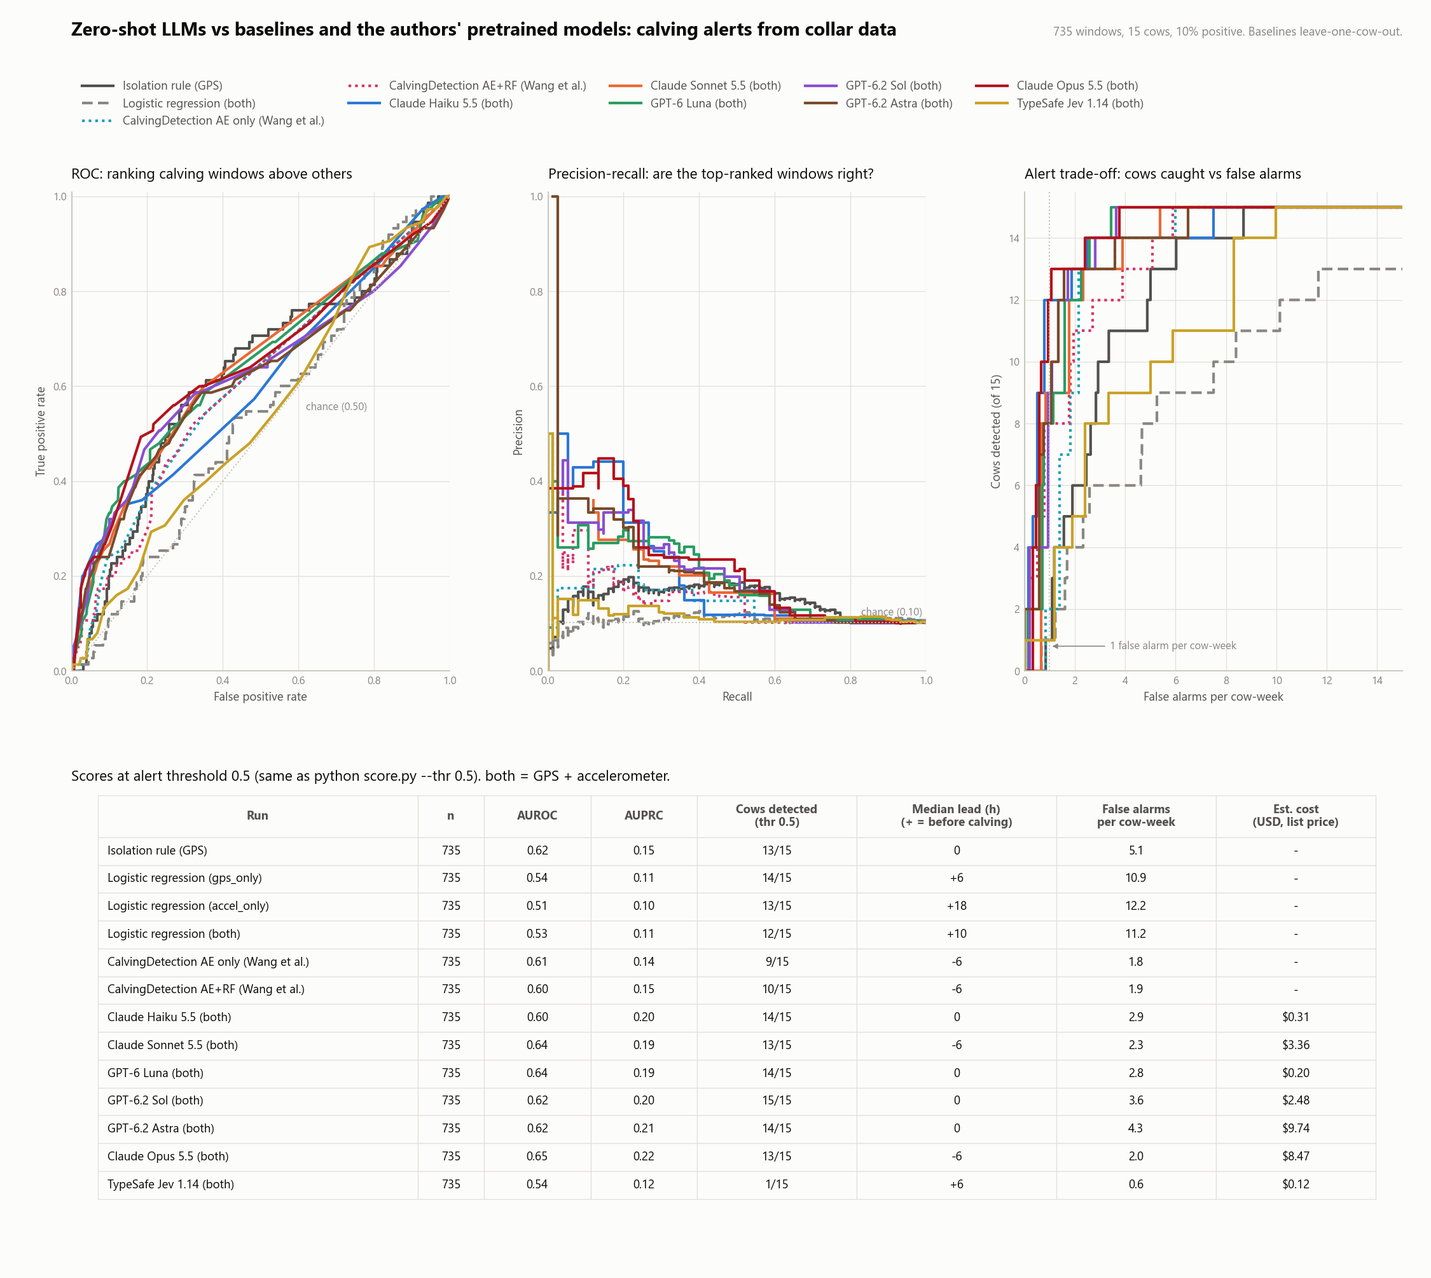
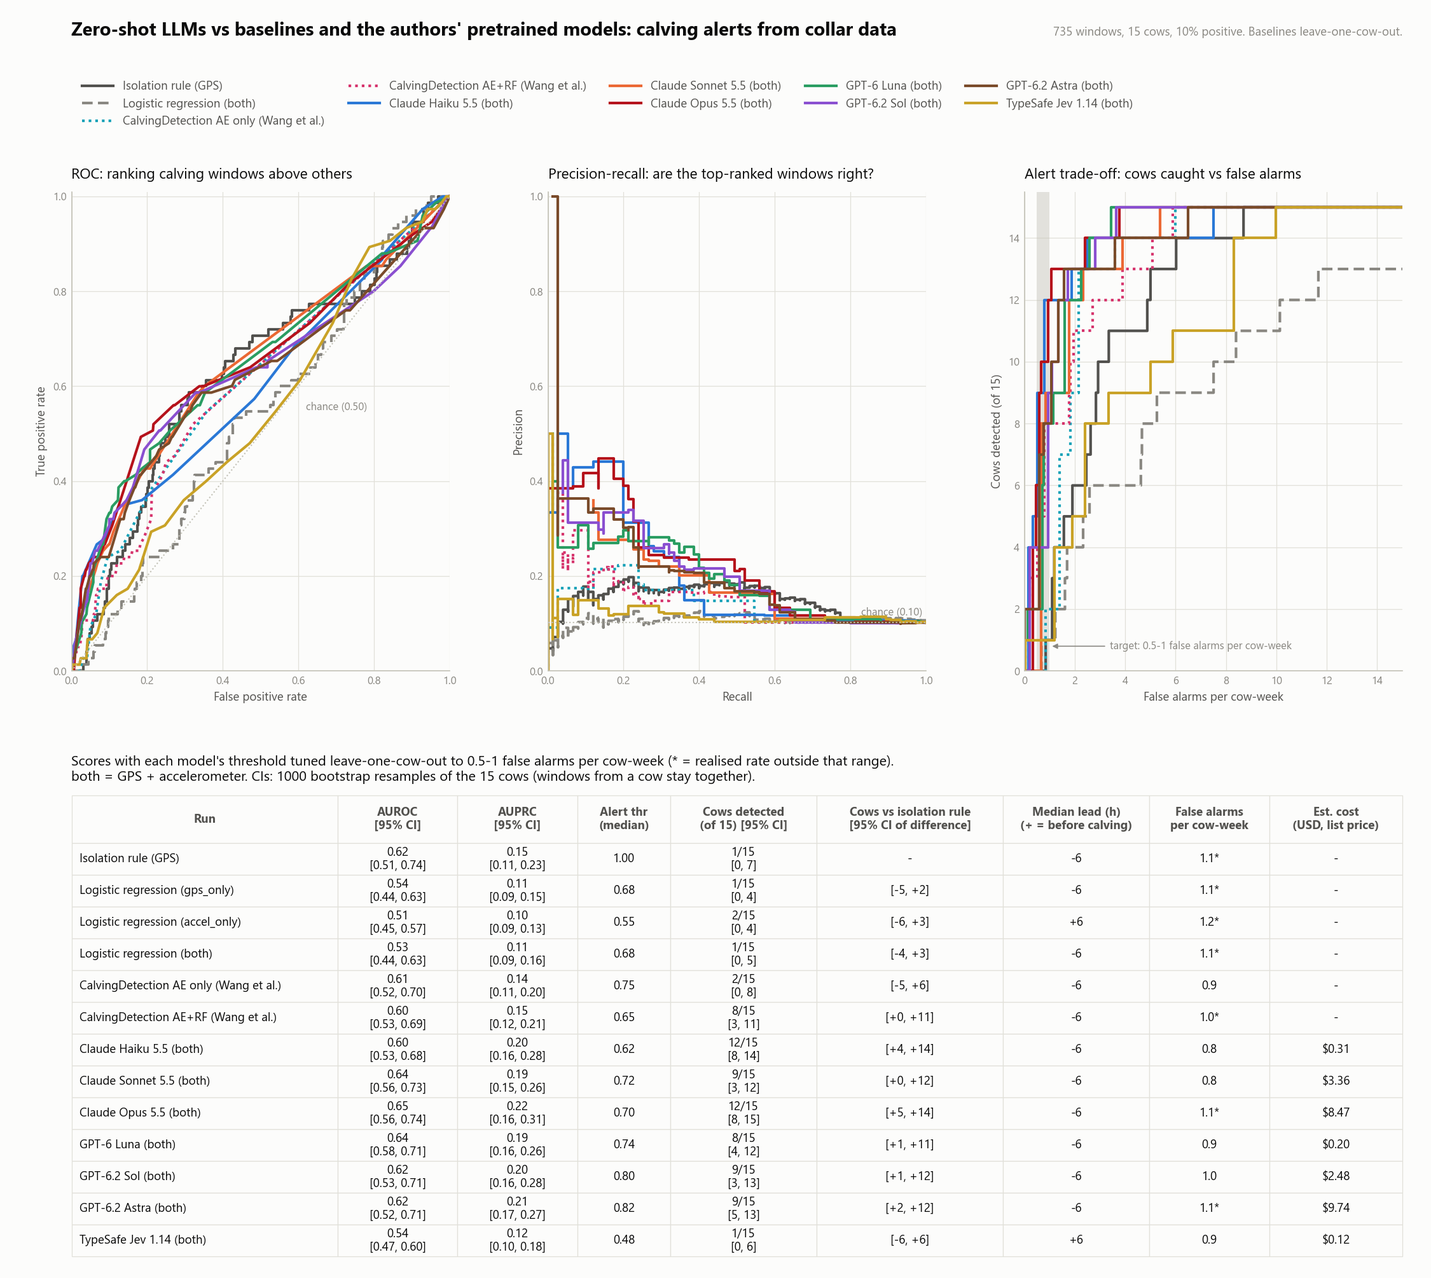
updated writeup

diff --git a/score.py b/score.py
@@ -1,11 +1,16 @@
 """Score LLM runs and compare them with two classic baselines.
 
-Usage: python score.py            # scores every file in results/
-       python score.py --thr 0.5  # alert threshold on the probability
+Usage: python score.py            # default: per-model threshold tuned to a false-alarm budget
+       python score.py --fa-lo 0.5 --fa-hi 1.0   # the budget, in false alarms per cow-week
+       python score.py --thr 0.5  # fixed alert threshold on the probability instead
 
 Window-level: AUROC and AUPRC (threshold-free; chance AUPRC = positive rate).
 Event-level at the threshold: cows detected (any positive window alerted),
 median lead time before calving, false alarms per cow-week.
+Budget mode: for each held-out cow, the threshold is the lowest one that keeps the OTHER 14 cows'
+false alarms <= --fa-hi per cow-week (lowest threshold = most cows caught within budget). It is
+applied to the held-out cow and the results are pooled, so the threshold never sees the cow it
+scores. The realised FA/wk can land outside [fa-lo, fa-hi]; it is flagged with * when it does.
 Baselines are computed from windows.jsonl with leave-one-cow-out, so they never
 see the test cow.
 """
@@ -43,7 +48,35 @@ def logreg_scores(W, feats):
     return list(s)
 
 
+def pick_threshold(recs, fa_hi):
+    """Lowest probability threshold whose false alarms stay <= fa_hi per cow-week on these recs.
+    inf (never alert) if even the highest score exceeds the budget."""
+    negs = np.sort([r["prob"] for r in recs if not r["label"]])
+    weeks = len(negs) * STEP_H / 168
+    cands = np.unique([r["prob"] for r in recs])  # ascending; FA is non-increasing in the threshold
+    fa = (len(negs) - np.searchsorted(negs, cands, side="left")) / weeks  # negatives with prob >= t
+    ok = np.where(fa <= fa_hi)[0]
+    return float(cands[ok[0]]) if len(ok) else float("inf")
+
+
+def evaluate(recs, thr, fa_lo, fa_hi):
+    """metrics() at a fixed threshold (thr is a number), or, if thr is None, at the leave-one-cow-out
+    false-alarm-budget thresholds. Adds 'thr' (median across folds) and 'in_range'."""
+    if thr is not None:
+        out = metrics(recs, thr); out["thr"] = thr; out["in_range"] = True
+        return out
+    recs = [r for r in recs if r.get("prob") is not None]
+    per_cow = {c: pick_threshold([r for r in recs if r["cow"] != c], fa_hi) for c in {r["cow"] for r in recs}}
+    out = metrics(recs, per_cow)
+    finite = [t for t in per_cow.values() if np.isfinite(t)]
+    out["thr"] = float(np.median(finite)) if finite else None
+    fa = out["fa_per_cow_week"]
+    out["in_range"] = fa is not None and fa_lo <= fa <= fa_hi
+    return out
+
+
 def metrics(recs, thr):
+    """thr is a number, or a {cow: threshold} dict (used by the leave-one-cow-out budget mode)."""
     recs = [r for r in recs if r.get("prob") is not None]
     y = np.array([r["label"] for r in recs]); p = np.array([r["prob"] for r in recs])
     out = {"n": len(recs)}
@@ -52,11 +85,12 @@ def metrics(recs, thr):
     cows = sorted({r["cow"] for r in recs}); det, leads, fa, neg_h = 0, [], 0, 0
     for c in cows:
         rc = [r for r in recs if r["cow"] == c]
-        hits = [r for r in rc if r["label"] and r["prob"] >= thr]
+        t = thr[c] if isinstance(thr, dict) else thr
+        hits = [r for r in rc if r["label"] and r["prob"] >= t]
         if hits:
             det += 1; leads.append(max(r["hours_to_calving"] for r in hits))
         negs = [r for r in rc if not r["label"]]
-        fa += sum(r["prob"] >= thr for r in negs); neg_h += len(negs) * STEP_H
+        fa += sum(r["prob"] >= t for r in negs); neg_h += len(negs) * STEP_H
     out["detected"] = f"{det}/{len(cows)}"
     out["lead_h"] = float(np.median(leads)) if leads else None
     out["fa_per_cow_week"] = fa / (neg_h / 168) if neg_h else None
@@ -65,33 +99,84 @@ def metrics(recs, thr):
 
 def fmt(name, m):
     g = lambda k, f: (f.format(m[k]) if m.get(k) is not None else "  -  ")
-    return (f"{name:<52} {m['n']:>4}  {g('auroc','{:.2f}'):>5}  {g('auprc','{:.2f}'):>5}  "
-            f"{m['detected']:>6}  {g('lead_h','{:.0f}'):>5}  {g('fa_per_cow_week','{:.1f}'):>6}")
+    star = "" if m.get("in_range", True) else "*"
+    return (f"{name:<52} {m['n']:>4}  {g('auroc','{:.2f}'):>5}  {g('auprc','{:.2f}'):>5}  {g('thr','{:.2f}'):>5}  "
+            f"{m['detected']:>6}  {g('lead_h','{:.0f}'):>5}  {g('fa_per_cow_week','{:.1f}') + star:>6}")
+
+
+def bootstrap(runs, cows, evaluate_fn, n_boot, seed=0):
+    """Cluster bootstrap over cows. Each replicate resamples the cows with replacement (a cow drawn twice
+    counts twice, and its windows stay together) and re-runs the whole pipeline, including the
+    leave-one-cow-out threshold tuning. The same resample is applied to every run, so differences between
+    runs are paired. Uses saved scores only: no model calls. Returns {name: {metric: array of n_boot}}."""
+    by_cow = {name: {c: [] for c in cows} for name, _ in runs}
+    for name, recs in runs:
+        for r in recs:
+            if r["cow"] in by_cow[name]:
+                by_cow[name][r["cow"]].append(r)
+    out = {name: {"auroc": [], "auprc": [], "cows": [], "fa": []} for name, _ in runs}
+    for b in range(n_boot):
+        draw = np.random.default_rng([seed, b]).integers(0, len(cows), len(cows))
+        for name, _ in runs:
+            # rename each drawn copy so duplicates of one cow are separate cows to metrics()/pick_threshold()
+            recs = [dict(r, cow=f"{cows[i]}#{j}") for j, i in enumerate(draw) for r in by_cow[name][cows[i]]]
+            m = evaluate_fn(recs)
+            out[name]["auroc"].append(m.get("auroc", np.nan)); out[name]["auprc"].append(m.get("auprc", np.nan))
+            out[name]["cows"].append(int(m["detected"].split("/")[0]))
+            out[name]["fa"].append(np.nan if m["fa_per_cow_week"] is None else m["fa_per_cow_week"])
+    return {n: {k: np.array(v, dtype=float) for k, v in d.items()} for n, d in out.items()}
+
+
+def print_bootstrap(res, ref, n_boot, n_cows):
+    ci = lambda x, f: (lambda q: f"{f.format(q[1])} [{f.format(q[0])}, {f.format(q[2])}]")(np.nanpercentile(x, [2.5, 50, 97.5]))
+    print(f"\nCluster bootstrap over cows ({n_boot} resamples of {n_cows} cows): median [95% CI]. "
+          f"Delta = paired difference vs '{ref}'.\n")
+    print(f"{'run':<52} {'AUROC':>20}  {'AUPRC':>20}  {'cows detected':>18}  {'delta cows vs ref':>20}  {'FA/wk':>18}")
+    for name, d in res.items():
+        delta = "" if name == ref else ci(d["cows"] - res[ref]["cows"], "{:.0f}")
+        print(f"{name:<52} {ci(d['auroc'], '{:.2f}'):>20}  {ci(d['auprc'], '{:.2f}'):>20}  "
+              f"{ci(d['cows'], '{:.0f}'):>18}  {delta:>20}  {ci(d['fa'], '{:.1f}'):>18}")
 
 
 def main():
     ap = argparse.ArgumentParser()
+    ap.add_argument("--boot", type=int, default=1000, help="cow-level bootstrap resamples for the CIs (0 = skip)")
+    ap.add_argument("--seed", type=int, default=0, help="bootstrap seed")
     ap.add_argument("--windows", default="windows.jsonl")
-    ap.add_argument("--thr", type=float, default=0.5)
+    ap.add_argument("--thr", type=float, default=None, help="fixed threshold; default = tune to the FA budget")
+    ap.add_argument("--fa-lo", type=float, default=0.5)
+    ap.add_argument("--fa-hi", type=float, default=1.0)
     a = ap.parse_args()
     W = [json.loads(l) for l in open(a.windows)]
     prev = np.mean([w["label"] for w in W])
-    print(f"{len(W)} windows, positive rate {prev:.2f} (= chance AUPRC). Alert threshold {a.thr}.\n")
-    print(f"{'run':<52} {'n':>4}  {'AUROC':>5}  {'AUPRC':>5}  {'cows':>6}  {'lead':>5}  {'FA/wk':>6}")
+    mode = (f"Alert threshold {a.thr}" if a.thr is not None else
+            f"Per-model leave-one-cow-out threshold for {a.fa_lo}-{a.fa_hi} false alarms/cow-week (* = realised rate outside it)")
+    print(f"{len(W)} windows, positive rate {prev:.2f} (= chance AUPRC). {mode}.\n")
+    print(f"{'run':<52} {'n':>4}  {'AUROC':>5}  {'AUPRC':>5}  {'thr':>5}  {'cows':>6}  {'lead':>5}  {'FA/wk':>6}")
+    metrics_ = lambda recs: evaluate(recs, a.thr, a.fa_lo, a.fa_hi)
 
     base = lambda s: [dict(id=w["id"], cow=w["cow"], label=w["label"],
                            hours_to_calving=w["hours_to_calving"], prob=float(v)) for w, v in zip(W, s)]
     # rule: z > 1 means "well above her usual spread"; map to 0/1 alert at that point
     rs = rule_scores(W)
     r = base(rs); [d.update(prob=1 / (1 + np.exp(-(v - 1) * 3))) for d, v in zip(r, rs)]
-    print(fmt("baseline: isolation rule (gps)", metrics(r, a.thr)))
+    runs = [("baseline: isolation rule (gps)", r)]
     for fs, feats in FEATURES.items():
-        print(fmt(f"baseline: logistic regression LOCO ({fs})", metrics(base(logreg_scores(W, feats)), a.thr)))
-    print()
+        runs.append((f"baseline: logistic regression LOCO ({fs})", base(logreg_scores(W, feats))))
+    n_base = len(runs)
     for f in sorted(glob.glob("results/*.jsonl")):
         recs = [json.loads(l) for l in open(f)]
         err = sum(r.get("prob") is None for r in recs)
-        print(fmt(os.path.basename(f)[:-6] + (f" ({err} err)" if err else ""), metrics(recs, a.thr)))
+        runs.append((os.path.basename(f)[:-6] + (f" ({err} err)" if err else ""), recs))
+    for i, (name, recs) in enumerate(runs):
+        if i == n_base:
+            print()
+        print(fmt(name, metrics_(recs)))
+
+    if a.boot > 0:
+        cows = sorted({w["cow"] for w in W})
+        res = bootstrap(runs, cows, metrics_, a.boot, a.seed)
+        print_bootstrap(res, runs[0][0], a.boot, len(cows))
 
 
 if __name__ == "__main__":

diff --git a/plot_results.py b/plot_results.py
@@ -1,10 +1,12 @@
 """Comparison figure: hand-built baselines vs the LLM runs, plus the score.py table.
 
-Usage: python plot_results.py            # -> figures/comparison.png
-       python plot_results.py --thr 0.5  # alert threshold for the table's event-level columns
+Usage: python plot_results.py            # -> figures/comparison.png, table at the false-alarm budget
+       python plot_results.py --thr 0.5  # fixed alert threshold for the table instead
+       python plot_results.py --fa-lo 0.5 --fa-hi 1.0
 
-All numbers come from score.py's own functions (metrics, rule_scores, logreg_scores), so the
-figure can never disagree with `python score.py`. Curves are threshold-free; the table uses --thr.
+All numbers come from score.py's own functions (evaluate, rule_scores, logreg_scores), so the
+figure can never disagree with `python score.py`. Curves are threshold-free; the table uses the
+per-model leave-one-cow-out threshold tuned to the budget (see score.py), or --thr if given.
 """
 import argparse, json, os
 import matplotlib
@@ -13,7 +15,7 @@ import matplotlib.pyplot as plt
 import numpy as np
 from sklearn.metrics import precision_recall_curve, roc_curve
 
-from score import FEATURES, logreg_scores, metrics, rule_scores
+from score import FEATURES, bootstrap, evaluate, logreg_scores, metrics, rule_scores
 
 # List prices in USD per million tokens (input, output), as of 2026-11. Update if prices change.
 PRICES = {"claude-haiku-5-5": (0.10, 0.50), "claude-sonnet-5-5": (2.00, 10.00), "gpt-6-luna":(0.10,0.50), "gpt-6.2-sol": (2.00, 10.00), "jev-1.14":(0.042,0.0), "gpt-6.2-astra":(8.00,40.00), "claude-opus-5-5":(4.00,20.00)}
@@ -23,10 +25,10 @@ LLM_RUNS = [  # (label, results file, model id for pricing)
     ("CalvingDetection AE+RF (Wang et al.)", "results/cd__rf_pretrained.jsonl", None),
     ("Claude Haiku 5.5 (both)", "results/harbor__anthropic_claude-haiku-5-5__both.jsonl", "claude-haiku-5-5"),
     ("Claude Sonnet 5.5 (both)", "results/harbor__anthropic_claude-sonnet-5-5__both.jsonl", "claude-sonnet-5-5"),
+    ("Claude Opus 5.5 (both)", "results/harbor__anthropic_claude-opus-5-5__both.jsonl", "claude-opus-5-5"),
     ("GPT-6 Luna (both)", "results/harbor__openai_gpt-6-luna__both.jsonl", "gpt-6-luna"),
     ("GPT-6.2 Sol (both)", "results/harbor__openai_gpt-6.2-sol__both.jsonl", "gpt-6.2-sol"),
     ("GPT-6.2 Astra (both)", "results/harbor__openai_gpt-6.2-astra__both.jsonl", "gpt-6.2-astra"),
-    ("Claude Opus 5.5 (both)", "results/harbor__anthropic_claude-opus-5-5__both.jsonl", "claude-opus-5-5"),
     ("TypeSafe Jev 1.14 (both)", "results/harbor__jev_jev-1.14.0__both.jsonl", "jev-1.14"),
 ]
 
@@ -39,10 +41,10 @@ STYLE = {
     "CalvingDetection AE+RF (Wang et al.)":   dict(color="#d6336c", ls=(0, (1, 1.5))),
     "Claude Haiku 5.5 (both)":    dict(color="#2a78d6", ls="-"),
     "Claude Sonnet 5.5 (both)":   dict(color="#eb6834", ls="-"),
+    "Claude Opus 5.5 (both)":     dict(color="#b5121b", ls="-"),
     "GPT-6 Luna (both)":          dict(color="#2a9d62", ls="-"),
     "GPT-6.2 Sol (both)":         dict(color="#8a4fd0", ls="-"),
     "GPT-6.2 Astra (both)":       dict(color="#7a4b2a", ls="-"),
-    "Claude Opus 5.5 (both)":     dict(color="#b5121b", ls="-"),
     "TypeSafe Jev 1.14 (both)":   dict(color="#c9a227", ls="-"),
 }
 
@@ -100,7 +102,11 @@ def style_axes(ax, title, xlabel, ylabel):
 def main():
     ap = argparse.ArgumentParser()
     ap.add_argument("--windows", default="windows.jsonl")
-    ap.add_argument("--thr", type=float, default=0.5)
+    ap.add_argument("--thr", type=float, default=None, help="fixed threshold; default = tune to the FA budget")
+    ap.add_argument("--fa-lo", type=float, default=0.5)
+    ap.add_argument("--fa-hi", type=float, default=1.0)
+    ap.add_argument("--boot", type=int, default=1000, help="cow-level bootstrap resamples for the table CIs (0 = skip)")
+    ap.add_argument("--seed", type=int, default=0, help="bootstrap seed")
     ap.add_argument("--out", default="figures/comparison.png")
     a = ap.parse_args()
     W = [json.loads(l) for l in open(a.windows)]
@@ -133,9 +139,9 @@ def main():
     style_axes(ax_pr, "Precision-recall: are the top-ranked windows right?", "Recall", "Precision")
     ax_pr.set_xlim(0, 1); ax_pr.set_ylim(0, 1.01)
 
-    ax_tr.axvline(1, color=AXIS, lw=1, ls=":")
-    ax_tr.annotate("1 false alarm per cow-week", xy=(1.0, 0.8), xytext=(3.4, 0.8), color=MUTED, fontsize=8,
-                   va="center", arrowprops=dict(arrowstyle="-|>", color=MUTED, lw=0.8))
+    ax_tr.axvspan(a.fa_lo, a.fa_hi, color=AXIS, alpha=0.45, lw=0)
+    ax_tr.annotate(f"target: {a.fa_lo:g}-{a.fa_hi:g} false alarms per cow-week", xy=(a.fa_hi, 0.8), xytext=(3.4, 0.8),
+                   color=MUTED, fontsize=8, va="center", arrowprops=dict(arrowstyle="-|>", color=MUTED, lw=0.8))
     style_axes(ax_tr, "Alert trade-off: cows caught vs false alarms", "False alarms per cow-week", "Cows detected (of 15)")
     ax_tr.set_xlim(0, 15); ax_tr.set_ylim(0, 15.5)
 
@@ -149,18 +155,34 @@ def main():
 
     # Table: the same rows and columns as `python score.py --thr <thr>`, plus estimated cost.
     ax_t = fig.add_subplot(gs[1, :]); ax_t.axis("off")
-    cols = ["Run", "n", "AUROC", "AUPRC", f"Cows detected\n(thr {a.thr})", "Median lead (h)\n(+ = before calving)",
+    # 95% CIs: cluster bootstrap over cows on the saved scores (no model calls); see score.bootstrap.
+    boot = None
+    if a.boot > 0:
+        cows = sorted({w["cow"] for w in W})
+        boot = bootstrap([(n, r) for n, (r, _) in runs.items()], cows,
+                         lambda recs: evaluate(recs, a.thr, a.fa_lo, a.fa_hi), a.boot, a.seed)
+    ref = "Isolation rule (GPS)"
+    ci = lambda x, f: (lambda q: f"[{f.format(q[0])}, {f.format(q[1])}]")(np.nanpercentile(x, [2.5, 97.5]))
+    cols = ["Run", "AUROC\n[95% CI]", "AUPRC\n[95% CI]", "Alert thr\n(median)", "Cows detected\n(of 15) [95% CI]",
+            "Cows vs isolation rule\n[95% CI of difference]", "Median lead (h)\n(+ = before calving)",
             "False alarms\nper cow-week", "Est. cost\n(USD, list price)"]
     rows = []
     for name, (recs, model) in runs.items():
-        m = metrics(recs, a.thr); c = cost_usd(recs, model) if model else None
+        m = evaluate(recs, a.thr, a.fa_lo, a.fa_hi); c = cost_usd(recs, model) if model else None
         f = lambda v, s: "-" if v is None else s.format(v)
-        rows.append([name, m["n"], f(m.get("auroc"), "{:.2f}"), f(m.get("auprc"), "{:.2f}"), m["detected"],
-                     ("-" if m["lead_h"] is None else ("0" if round(m["lead_h"]) == 0 else f"{m['lead_h']:+.0f}")), f(m["fa_per_cow_week"], "{:.1f}"),
+        b = boot[name] if boot else None
+        det = m["detected"] + (f"\n{ci(b['cows'], '{:.0f}')}" if b else "")
+        delta = "-" if (not b or name == ref) else f"{ci(b['cows'] - boot[ref]['cows'], '{:+.0f}')}"
+        rows.append([name,
+                     f(m.get("auroc"), "{:.2f}") + (f"\n{ci(b['auroc'], '{:.2f}')}" if b else ""),
+                     f(m.get("auprc"), "{:.2f}") + (f"\n{ci(b['auprc'], '{:.2f}')}" if b else ""),
+                     f(m["thr"], "{:.2f}"), det, delta,
+                     ("-" if m["lead_h"] is None else ("0" if round(m["lead_h"]) == 0 else f"{m['lead_h']:+.0f}")),
+                     f(m["fa_per_cow_week"], "{:.1f}") + ("" if m["in_range"] else "*"),
                      "-" if model is None else ("n/a" if c is None else f"${c:.2f}")])
     tbl = ax_t.table(cellText=rows, colLabels=cols, loc="upper center", cellLoc="center",
-                     colWidths=[0.24, 0.05, 0.08, 0.08, 0.12, 0.15, 0.12, 0.12])
-    tbl.auto_set_font_size(False); tbl.set_fontsize(9); tbl.scale(1, 1.75)
+                     colWidths=[0.20, 0.09, 0.09, 0.07, 0.11, 0.14, 0.11, 0.09, 0.10])
+    tbl.auto_set_font_size(False); tbl.set_fontsize(9); tbl.scale(1, 2.0)
     for (r, c), cell in tbl.get_celld().items():
         cell.set_edgecolor(GRID); cell.set_linewidth(0.6)
         cell.set_facecolor(SURFACE); cell.get_text().set_color(INK)
@@ -169,8 +191,11 @@ def main():
         if c == 0 and r > 0:
             cell.get_text().set_ha("left"); cell._loc = "left"; cell.PAD = 0.03
     note = "".join(f" Not shown, all calls failed: {k} ({v})." for k, v in failed.items())
-    ax_t.set_title(f"Scores at alert threshold {a.thr} (same as python score.py --thr {a.thr}). both = GPS + accelerometer.{note}",
-                   loc="left", fontsize=11, color=INK, pad=4)
+    head = (f"Scores at alert threshold {a.thr} (same as python score.py --thr {a.thr})." if a.thr is not None else
+            f"Scores with each model's threshold tuned leave-one-cow-out to {a.fa_lo:g}-{a.fa_hi:g} false alarms per cow-week "
+            f"(* = realised rate outside that range).")
+    ci_note = (f" CIs: {a.boot} bootstrap resamples of the 15 cows (windows from a cow stay together)." if boot else "")
+    ax_t.set_title(f"{head}\nboth = GPS + accelerometer.{ci_note}{note}", loc="left", fontsize=10.5, color=INK, pad=4)
 
     os.makedirs(os.path.dirname(a.out) or ".", exist_ok=True)
     fig.savefig(a.out, dpi=150, facecolor=SURFACE)

diff --git a/README.md b/README.md
@@ -1,6 +1,41 @@
-# Agrivanna: zero-shot LLM baseline for calving alerts
+# Zero Shot Calving Benchmark
 
-Can off-the-shelf LLMs (OpenAI, Claude, Gemini) spot imminent calving from collar data, with no training?
+Question: Can a LLM forecast future claving events based on multimodal sensor data, specifically, GPS and accelerometer readings
+
+# Key Ideas
+- I benchmarked Claude, GPT, and TypeSafe (system one AI) models with a zero shot prompt (contained a set of GPS and Accelerometer data at a given window and asked to see if a cow was calving based on that data) to see if current LLM reasoning is able to detect the 15 cows calving. 
+- To make it theoretically more viable for a rancher to adopt, I had a hard constraint with false alarms needing to be less than or equal to 1. Given this constraint, LLMs seem to be able to detect more cow calving events but does not need higher reasoning models to achieve such metrics (interestingly, cheaper models seem to work better)
+- AUROC demonstrates that it can't discriminate normal cows vs pre-calving cows as well, AUPRC seems to flag real events 20% of the time. Better than the baselines but not the best in general
+- **This suggests further research of using LLMs to identify livestock events (estrus, illness/injury, threats) solely on GPS and accelerometer data rather than traditional ML methods. A primary direction could be fine-tuning or better prompting to an open weight model for offline inference** 
+
+# Motivation
+
+[Wang et al.](https://www.mdpi.com/2077-0472/15/13/1434/pdf) utilized traditional machine learning methods (autoencoder & random forest) to successfilly determine if the systems were able to identify 15 calving events. The paper states that evaluating the model's generalization on these types of tasks is a possible open line of research, current large language models (LLMS) could provide a solution to generalizing these tasks by using its reasoning capabilities to classify calving events. There does not exist research that investigates the use of LLMs to identify these events solely on GPS and accelerometer data, this experiment attempts to address this open question.
+
+## Alert threshold: false-alarm budget
+
+**Step 1: count false alarms for a candidate threshold.** A false alarm is a window with no calving coming that the model scores at or above the threshold. Divide by the amount of non-calving time, in cow-weeks, to get a rate:
+
+$$
+\text{FA rate}(t) = \frac{\text{non-calving windows scored} \ge t}{\text{non-calving cow-weeks}}
+$$
+
+Raising $t$ can only lower this rate.
+
+**Step 2: take the lowest threshold that stays within budget.** Try every distinct score the model produced and keep the lowest one whose FA rate is at most the budget $\beta$ (1.0 by default):
+
+$$
+t^{*} = \min \{\, t : \text{FA rate}(t) \le \beta \,\}
+$$
+
+Lower thresholds alert more often and so catch more cows, so this is the most sensitive threshold the budget allows. If even the highest score is over budget, $t^{*} = \infty$ and the model never alerts.
+
+**Step 3: do it leave-one-cow-out.** Steps 1 and 2 use only the other 14 cows. The resulting $t^{*}$ is then applied to the held-out cow, and we repeat for all 15 cows. A window raises an alert when
+
+$$
+p_{\text{window}} \ge t^{*}_{\text{its cow}}
+$$
+
 
 ## Data
 CalvingDetection (Cao et al., 2025, *Agriculture* 15(13):1434), GPL-3.0.
@@ -78,13 +113,3 @@ python score.py
   2. The AE threshold is each cow's season-wide 95th percentile (uses future data), and the AE trained on each cow's days before day -5, so it is not deployable as-is.
   3. Only flagged hours get a score, so most windows tie at 0; AUROC and threshold-0.5 columns are coarse.
   4. The paper reports per-cow cluster F1, a different metric that we do not reproduce.
-
-## Metrics (score.py)
-- AUROC / AUPRC per window (chance AUPRC = 0.10).
-- At the alert threshold (default 0.5): cows detected, median lead time (h before calving), false alarms per cow-week.
-- Comparators, built with leave-one-cow-out so they never see the test cow: an isolation threshold rule and logistic regression on each feature set.
-
-## Caveats
-- Only 15 events, so this shows whether a signal exists, not production readiness.
-- Label timing is coarse (+/- ~12 h).
-- LLMs are weak at reading long numeric tables. A poor result means "not zero-shot", not "no signal in the data".
